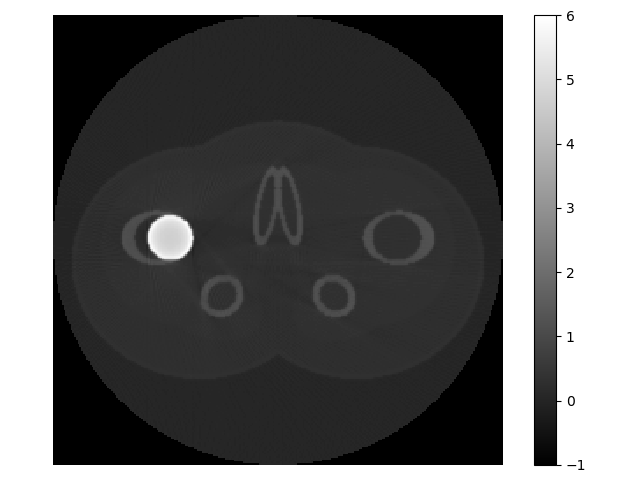
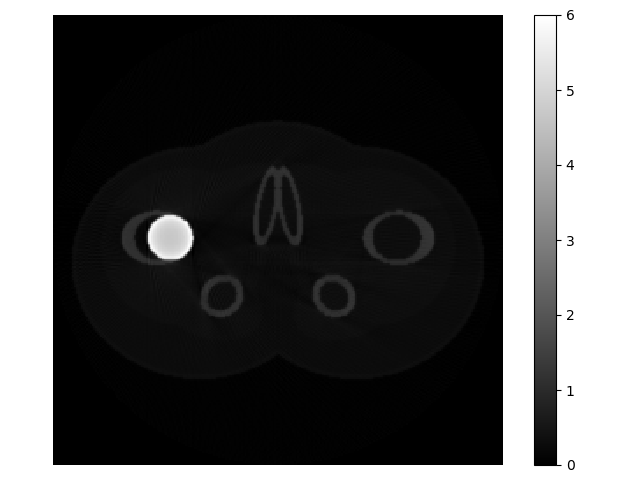
limited displayed range of data values for reconstructed image as suggested by demonstrator

diff --git a/gg2_python/ct_test_example.py b/gg2_python/ct_test_example.py
@@ -28,7 +28,7 @@ def test_1():
 	y = scan_and_reconstruct(s, material, p, 0.01, 256)
 
 	# save some meaningful results
-	save_draw(y, 'results', 'test_1_image')
+	save_draw(y, 'results', 'test_1_image', caxis =[0,6])
 	save_draw(p, 'results', 'test_1_phantom')
 
 	# To check if results are correct, visually inspect the phantom and reconstructed image
